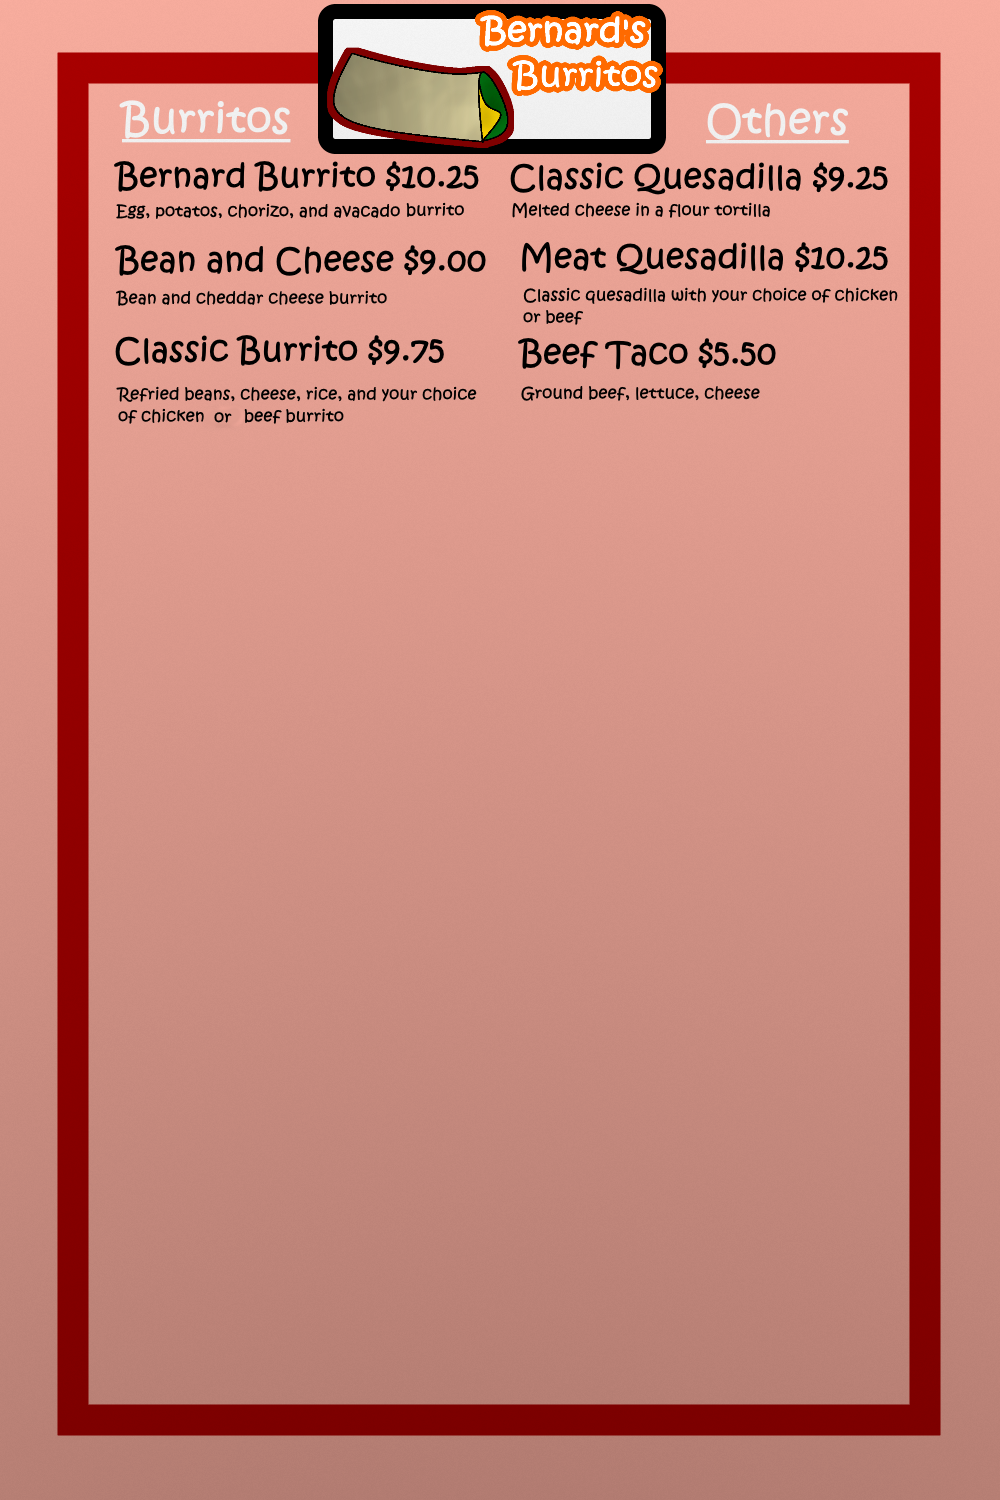
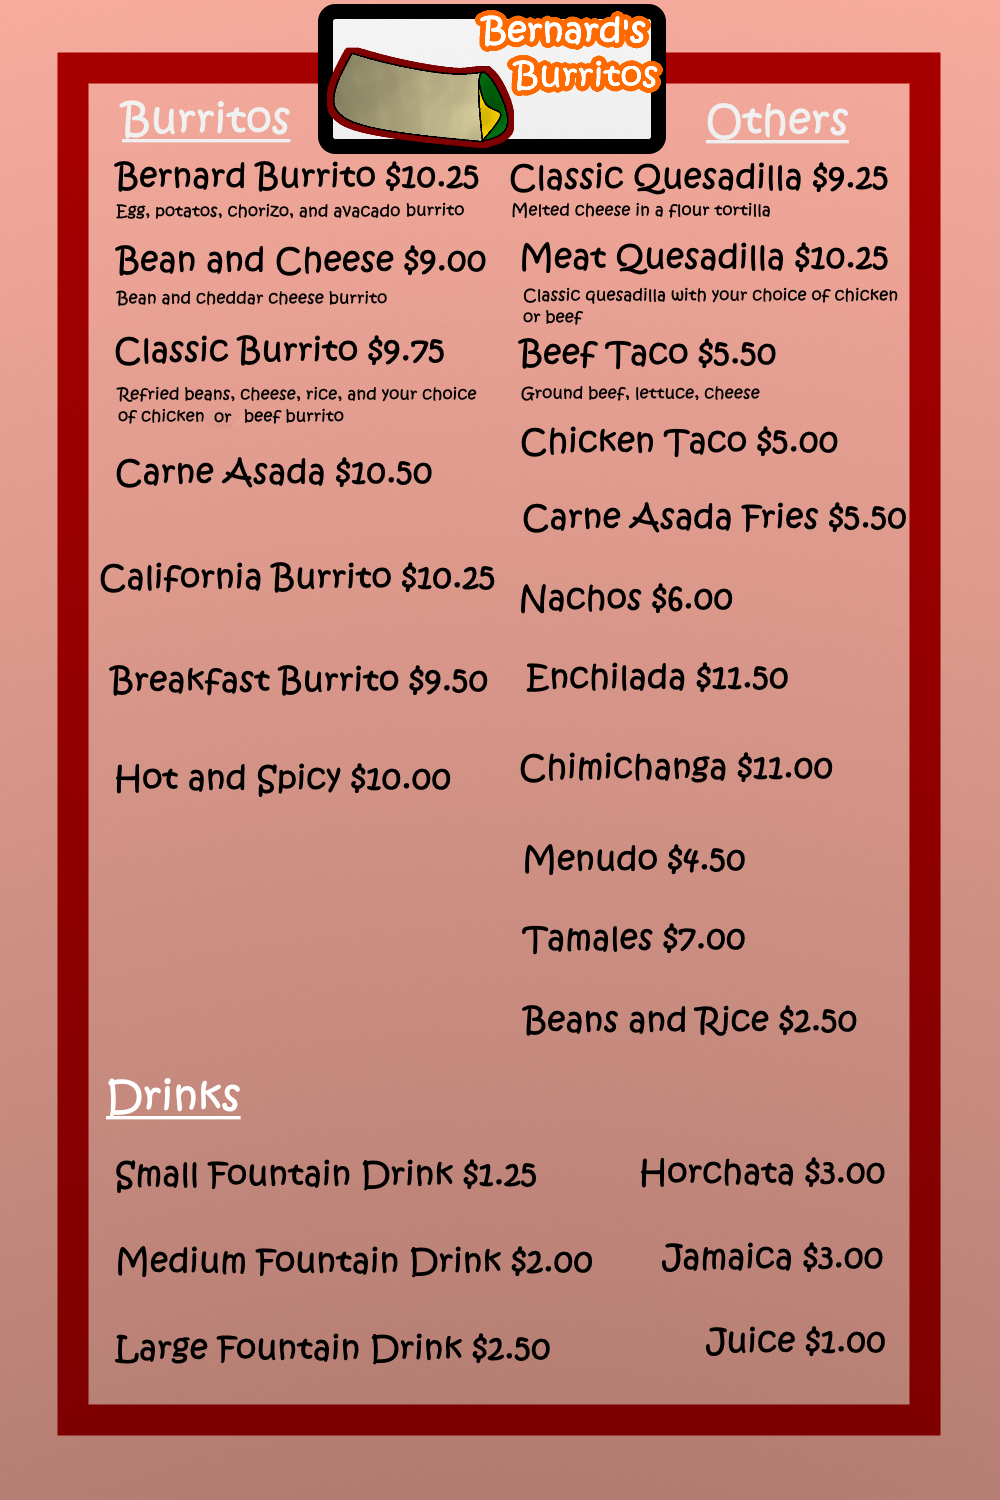
Much added
Changed menu image, menu buttons, menu js, and menu order html

diff --git a/files/pages/menuOrder.js b/files/pages/menuOrder.js
@@ -1,10 +1,10 @@
-var tortilla = 0
-var cheese = 0
-var meat = 0
-var veggie = 0
-var veggie2 = 0
-var guac = 0
-var sauce = 0
+var tortilla = "flour"
+var cheese = "cheddar"
+var meat = "chicken"
+var veggie1 = "tomato"
+var veggie2 = "lettuce"
+var guac = "no guacamole"
+var sauce = "medium sauce"
 
 function tortillaPick(){
     tortilla = prompt(`Pick your tortilla.
@@ -16,7 +16,7 @@ function tortillaPick(){
     }else if(tortilla == 2){
         tortilla = "corn"
     }else if(tortilla == 3){
-        tortilla = "none"
+        tortilla = "no"
     }else{
         alert("Not a valid option")
         tortillaPick()
@@ -24,7 +24,7 @@ function tortillaPick(){
 }
 
 function cheesePick(){
-    tortilla = prompt(`Pick your cheese.
+    cheese = prompt(`Pick your cheese.
     1. cheddar
     2. mozzarella
     3. american
@@ -39,7 +39,7 @@ function cheesePick(){
     }else if(cheese == 4){
         cheese = "colby jack"
     }else if(cheese == 5){
-        cheese = "none"
+        cheese = "no"
     }else{
         alert("Not a valid option")
         cheesePick()
@@ -47,7 +47,7 @@ function cheesePick(){
 }
 
 function meatPick(){
-    tortilla = prompt(`Pick your meat.
+    meat = prompt(`Pick your meat.
     1. chicken
     2. steak
     3. chorizo
@@ -62,30 +62,30 @@ function meatPick(){
     }else if(meat == 4){
         meat = "pork"
     }else if(meat == 5){
-        meat = "none"
+        meat = "no meat"
     }else{
         alert("Not a valid option")
         meatPick()
     }
 }
 
-function veggiePick(){
-    tortilla = prompt(`Pick your first vegetable.
+function veggie1Pick(){
+    veggie1 = prompt(`Pick your first vegetable.
     1. lettuce
     2. tomato
     3. olives
     4. potato
     5. none`)
-    if(veggie == 1 ){
-        veggie = "lettuce"
-    }else if(veggie == 2){
-        veggie = "steak"
-    }else if(veggie == 3){
-        veggie = "chorizo"
-    }else if(veggie == 4){
-        veggie = "pork"
-    }else if(veggie == 5){
-        veggie = "none"
+    if(veggie1 == 1 ){
+        veggie1 = "lettuce"
+    }else if(veggie1 == 2){
+        veggie1 = "tomatos"
+    }else if(veggie1 == 3){
+        veggie1 = "olives"
+    }else if(veggie1 == 4){
+        veggie1 = "potato"
+    }else if(veggie1 == 5){
+        veggie1 = "no veggies"
     }else{
         alert("Not a valid option")
         veggiePick()
@@ -93,7 +93,7 @@ function veggiePick(){
 }
 
 function veggie2Pick(){
-    tortilla = prompt(`Pick your second vegetable.
+    veggie2 = prompt(`Pick your second vegetable.
     1. lettuce
     2. tomato
     3. olives
@@ -102,13 +102,13 @@ function veggie2Pick(){
     if(veggie2 == 1 ){
         veggie2 = "lettuce"
     }else if(veggie2 == 2){
-        veggie2 = "steak"
+        veggie2 = "tomatos"
     }else if(veggie2 == 3){
-        veggie2 = "chorizo"
+        veggie2 = "olives"
     }else if(veggie2 == 4){
-        veggie2 = "pork"
+        veggie2 = "potato"
     }else if(veggie2 == 5){
-        veggie2 = "none"
+        veggie2 = "also no veggies"
     }else{
         alert("Not a valid option")
         veggie2Pick()
@@ -116,13 +116,13 @@ function veggie2Pick(){
 }
 
 function guacPick(){
-    tortilla = prompt(`Do you want guacamole?
+    guac = prompt(`Do you want guacamole?
     1. guacamole
     2. none`)
     if(guac == 1 ){
-        guac = "lettuce"
+        guac = "guacamole"
     }else if(guac == 2){
-        guac = "steak"
+        guac = "no guacamole"
     }else{
         alert("Not a valid option")
         guacPick()
@@ -130,23 +130,25 @@ function guacPick(){
 }
 
 function saucePick(){
-    tortilla = prompt(`What sauce do you want?
+    sauce = prompt(`What sauce do you want?
     1. medium sauce
     2. mild sauce
     3. hot sauce
-    5. none`)
+    4. none`)
     if(sauce == 1 ){
-        sauce = "lettuce"
+        sauce = "medium"
     }else if(sauce == 2){
-        sauce = "steak"
+        sauce = "mild"
     }else if(sauce == 3){
-        sauce = "chorizo"
+        sauce = "hot"
     }else if(sauce == 4){
-        sauce = "pork"
+        sauce = "no sauce"
     }else{
         alert("Not a valid option")
         saucePick()
     }
 }
 
-
+function orderOrdered(){
+    alert("HOORAY! You have ordered a burrito with " + tortilla + " tortilla, " + cheese + " cheese, " + meat + ", " + veggie1 + " and " + veggie2 + ", " + guac + ", and " + sauce + ".")
+}

diff --git a/files/pages/menuOrder.html b/files/pages/menuOrder.html
@@ -1,19 +1,47 @@
-<!DOCTYPE html>
-<html lang="en">
 <head>
     <meta charset="UTF-8">
     <meta http-equiv="X-UA-Compatible" content="IE=edge">
     <meta name="viewport" content="width=device-width, initial-scale=1.0">
-    <title>Document</title>
+    <title>Bernard's Menu</title>
+    <link rel="stylesheet" href="./style.css">
 </head>
 <body>
-<input type="button" value="Order tortilla" onclick="tortillaPick()"/>
-<input type="button" value="Order cheese" onclick="cheesePick()" />
-<input type="button" value="Order meat" onclick="meatPick()" />
-<input type="button" value="Order vegetable 1" onclick="veggiePick()" />
-<input type="button" value="Order vegetable 2" onclick="veggie2Pick()" />
-<input type="button" value="Order guacamole" onclick="guacPick()" />
-<input type="button" value="Order sauce" onclick="saucePick()" />
+    <p1><img class="displayed" src="../images/logo.png" alt="Bernard's Burrito logo" width="300" height="150"></p1>
+    <h1>Bernard's Burritos Menu</h1>
+    <button><a href="menu.html">Back to Menu</a></button>
+<p2>
+    <input type="button" value="Order tortilla" onclick="tortillaPick()"/>
+    <br><br>
+</p2>
+</p2>
+<p2>
+    <input type="button" value="Order cheese" onclick="cheesePick()" />
+    <br><br>
+</p2>
+<p2>
+    <input type="button" value="Order meat" onclick="meatPick()" />
+    <br><br>
+</p2>
+<p2>
+    <input type="button" value="Order vegetable 1" onclick="veggie1Pick()" />
+    <br><br>
+</p2>
+<p2>
+    <input type="button" value="Order vegetable 2" onclick="veggie2Pick()" />
+    <br><br>
+</p2>
+<p2>
+    <input type="button" value="Order guacamole" onclick="guacPick()" />
+    <br><br>
+</p2>
+<p2>
+    <input type="button" value="Order sauce" onclick="saucePick()" />
+    <br><br>
+</p2>
+<p2>
+    <input type="button" value="Finish Order" onclick="orderOrdered()" />
+    <br><br>
+</p2>
+    <script src="menuOrder.js"></script>
 </body>
-<script src="menuOrder.js"></script>
 </html>

diff --git a/files/pages/menu.html b/files/pages/menu.html
@@ -11,8 +11,9 @@
     
     <p1><img class="displayed" src="../images/logo.png" alt="Bernard's Burrito logo" width="300" height="150"></p1>
         <!--Buttons for navigation-->
-        <button><a href="home.html">Home</a></button>
-        <button><a href="aboutUs.html">About Us</a></button>
+        <button><a href="./home.html">Home</a></button>
+        <button><a href="./aboutUs.html">About Us</a></button>
+        <button><a href="./menuOrder.html">Order Custom Burrito</a></button>
         
     <h1>Bernard's Burritos Menu</h1>
     <p2>Everyone wants to know what all of these Bernard Burritos are made out of. That's why this page is here! To tell you exactly what your'e getting with your meal! You can upgrade your meal to come with a fountain drink and a side of beans or rice for just $1.50 exra.</p2>

diff --git a/files/pages/home.html b/files/pages/home.html
@@ -17,7 +17,7 @@
 
     <p2> Get our signature Bernard Burrito for only $10.25. If wish to order the Bernard Burrito or any other item.
     <br>
-    <button><a href="menu.html">Click Here</a></button></p2>
+    <button><a href="./menu.html">Click Here</a></button></p2>
     <br>
     
     <img src="../images/team.jpg" alt="Team of one of Bernard's Burritos location" width="550" height="320">
@@ -27,6 +27,6 @@
     <br>
     <p2> Meet the founder and CEO of Bernard's Burritos, Mr. Bernard. To learn Mr. Bernard's and Bernard Burrito's story. 
     <br>
-      <button> <a href="aboutUs.html"> Click Here </a></button></p2>
+      <button> <a href="./aboutUs.html"> Click Here </a></button></p2>
   </body>
 </html>

diff --git a/files/pages/aboutUs.html b/files/pages/aboutUs.html
@@ -32,8 +32,8 @@
     <!-- Buttons leading to the home and menu -->
     <h1>All About Bernard's Burritos</h1>
     <br>
-    <button><a href="home.html">Home</a></button>
-    <button><a href="menu.html">Menu</a></button>
+    <button><a href="./home.html">Home</a></button>
+    <button><a href="./menu.html">Menu</a></button>
 
     <!-- Adds margins for the passage below -->
     <style>

diff --git a/files/pages/style.css b/files/pages/style.css
@@ -33,7 +33,6 @@ p2 {
     position: relative;
     margin-left: 4rem;
     margin-right: 4rem;
-    margin-bottom: 2rem;
     color: #000000;
     font-size: large;
     font-family: Georgia, 'Times New Roman', Times, serif;
